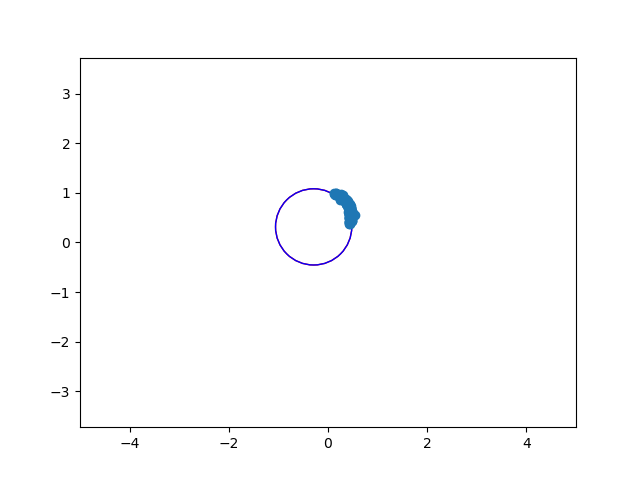
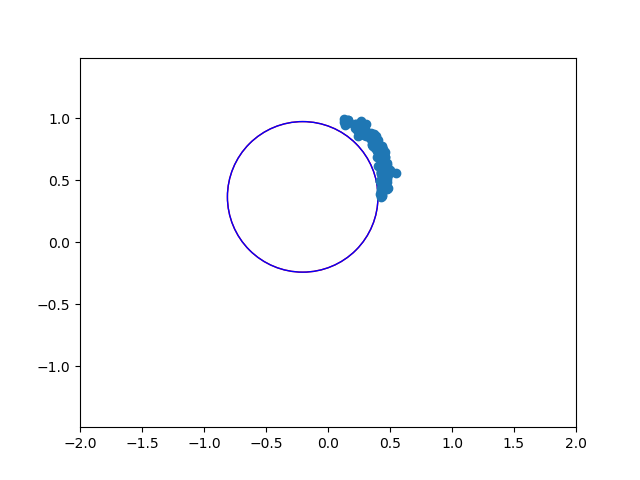
ADD: something wrong again...

diff --git a/train2.py b/train2.py
@@ -1,0 +1,156 @@
+import pandas as pd
+import matplotlib.pyplot as plt
+import math
+import random
+
+data0 = pd.read_csv("data/data2.txt", header=None, sep=" ")
+data0[:5]
+
+
+def g1(a, b, r, ksi1, x, y):
+    return -ksi1 - r + x * x - 2 * a * x + a * a + y * y - 2 * b * y + b * b
+
+
+def g2(a, b, r, ksi2, x, y):
+    return -ksi2 + r - x * x + 2 * a * x - a * a - y * y + 2 * b * y - b * b
+
+
+def train():
+
+    # parameters
+    ksi1 = [0.4] * len(data0)
+    ksi2 = [0.4] * len(data0)
+    r = 2
+    a = 0
+    b = 0
+
+    # lagrange parameters
+    u1 = [0] * len(data0)
+    u2 = [0] * len(data0)
+    # z = 0
+    # u3 = 0
+    # u4 = 0
+    # uz = 0
+
+    # step
+    p = 0.1
+    step = 0.1
+    i = 0
+    # outer loop
+    while (i < 100):
+        i += 1
+        j = 0
+
+        # print(ksi1)
+        # print(ksi2)
+        print(a)
+        print(b)
+        print(r)
+
+        # inner loop
+        while (j < 100):
+            j += 1
+            # print(j)
+            k = 0
+            while (k < len(data0)):
+                # rand_num = random.randint(0, len(data0) - 1)
+                x = data0[0][k]
+                y = data0[1][k]
+                tmp_g1 = max(0, g1(a, b, r, ksi1[k], x, y))
+                tmp_g2 = max(0, g2(a, b, r, ksi2[k], x, y))
+                tmp_ksi1 = max(0, -ksi1[k])
+                tmp_ksi2 = max(0, -ksi2[k])
+
+                # Partial derivative
+                tmp_g1_ksi1 = -1
+                tmp_g2_ksi2 = -1
+                tmp_g1_r = -1
+                tmp_g2_r = 1
+                tmp_g1_a = -2 * x + 2 * a
+                tmp_g2_a = 2 * x - 2 * a
+                tmp_g1_b = -2 * y + 2 * b
+                tmp_g2_b = 2 * y - 2 * b
+                if tmp_g1 <= 0:
+                    tmp_g1_ksi1 = 0
+                    tmp_g1_r = 0
+                    tmp_g1_a = 0
+                    tmp_g1_b = 0
+
+                if tmp_g2 <= 0:
+                    tmp_g2_ksi2 = 0
+                    tmp_g2_r = 0
+                    tmp_g2_a = 0
+                    tmp_g2_b = 0
+
+                grad_ksi1 = 0.1 + p * tmp_g1 * tmp_g1 * 2 * tmp_g1 * tmp_g1_ksi1 \
+                    + 2 * u1[k] * tmp_g1 * tmp_g1_ksi1
+                # + 2 * p * (max(0, -ksi1) ** 3) * -1
+
+                grad_ksi2 = 0.1 + p * tmp_g2 * tmp_g2 * 2 * tmp_g2*tmp_g2_ksi2 \
+                    + 2 * u2[k] * tmp_g2 * tmp_g2_ksi2
+                # + 2 * p * (max(0, -ksi2) ** 3) * -1
+
+                grad_r = p * tmp_g1 * tmp_g1 * 2 * tmp_g1 * tmp_g1_r \
+                    + 2 * u1[k] * tmp_g1 * tmp_g1_r \
+                    + p * tmp_g2 * tmp_g2 * 2 * tmp_g2 * tmp_g2_r \
+                    + 2 * u2[k]* tmp_g2 * tmp_g2_r
+
+                grad_a = p * tmp_g1 * tmp_g1 * 2 * tmp_g1 * tmp_g1_a \
+                    + 2 * u1[k] * tmp_g1 * tmp_g1_a \
+                    + p * tmp_g2 * tmp_g2 * 2 * tmp_g2 * tmp_g2_a \
+                    + 2 * u2[k] * tmp_g2 * tmp_g2_a
+
+                grad_b = p * tmp_g1 * tmp_g1 * 2 * tmp_g1 * tmp_g1_b \
+                    + 2 * u1[k] * tmp_g1 * tmp_g1_b \
+                    + p * tmp_g2 * tmp_g2 * 2 * tmp_g2 * tmp_g2_b \
+                    + 2 * u2[k] * tmp_g2 * tmp_g2_b
+
+                ksi1[k] -= step * grad_ksi1
+                ksi1[k] = ksi1[k] if ksi1[k] > 0 else 0
+
+                ksi2[k] -= step * grad_ksi2
+                ksi2[k] = ksi2[k] if ksi2[k] > 0 else 0
+
+                r -= step * grad_r
+                a -= step * grad_a
+                b -= step * grad_b
+
+                # # update u1 u2
+                # tmp_g1 = g1(a, b, r, ksi1[k], x, y)
+                # tmp_g1 = tmp_g1 if tmp_g1 < 0 else 0
+                # u1[k] += p * tmp_g1 * tmp_g1
+                # tmp_g2 = g2(a, b, r, ksi2[k], x, y)
+                # tmp_g2 = tmp_g2 if tmp_g2 < 0 else 0
+                # u2[k] += p * tmp_g2 * tmp_g2
+
+                k += 1
+            k = 0
+            while (k < len(data0)):
+                # rand_num = random.randint(0, len(data0) - 1)
+                x = data0[0][k]
+                y = data0[1][k]
+                tmp_g1 = max(0, g1(a, b, r, ksi1[k], x, y))
+                tmp_g2 = max(0, g2(a, b, r, ksi2[k], x, y))
+                # update u1 u2
+                
+                # tmp_g1 = tmp_g1 if tmp_g1 < 0 else 0
+                u1[k] -= p * tmp_g1 * tmp_g1
+                
+                # tmp_g2 = tmp_g2 if tmp_g2 < 0 else 0
+                u2[k] -= p * tmp_g2 * tmp_g2
+                k += 1
+
+        fig, ax = plt.subplots()
+        circle = plt.Circle((a, b), r, color='r', fill=False)
+        # circle1 = plt.Circle((a, b), r + ksi1, color='r', fill=False)
+        # circle2 = plt.Circle((a, b), r - ksi2, color='b', fill=False)
+        ax.axis('equal')
+        ax.axis([-2, 2, -2, 2])
+        ax.add_artist(circle)
+        # ax.add_artist(circle1)
+        # ax.add_artist(circle2)
+        ax.plot(data0[0], data0[1], 'o')
+        fig.savefig("progress.png")
+
+
+train()

diff --git a/train.py b/train.py
@@ -48,14 +48,14 @@ def train():
         # inner loop
         while (j < 100):
             j += 1
-            print(j)
+            # print(j)
             k = 0
             while (k < len(data0)):
                 # rand_num = random.randint(0, len(data0) - 1)
                 x = data0[0][k]
                 y = data0[1][k]
                 tmp_g1 = max(0, g1(a, b, r, ksi1, x, y))
-                tmp_g2 = max(0, g2(a, b, r, ksi1, x, y))
+                tmp_g2 = max(0, g2(a, b, r, ksi2, x, y))
                 tmp_ksi1 = max(0, -ksi1)
                 tmp_ksi2 = max(0, -ksi2)
 
@@ -117,9 +117,9 @@ def train():
                 tmp_g1 = g1(a, b, r, ksi1, x, y)
                 tmp_g1 = tmp_g1 if tmp_g1 < 0 else 0
                 u1 += p * tmp_g1 * tmp_g1
-                tmp_g2 = g1(a, b, r, ksi2, x, y)
+                tmp_g2 = g2(a, b, r, ksi2, x, y)
                 tmp_g2 = tmp_g2 if tmp_g2 < 0 else 0
-                u1 += p * tmp_g2 * tmp_g2
+                u2 += p * tmp_g2 * tmp_g2
 
                 k += 1
 
@@ -127,7 +127,7 @@ def train():
         circle1 = plt.Circle((a, b), r + ksi1, color='r', fill=False)
         circle2 = plt.Circle((a, b), r - ksi2, color='b', fill=False)
         ax.axis('equal')
-        ax.axis([-5, 5, -5, 5])
+        ax.axis([-2, 2, -2, 2])
         ax.add_artist(circle1)
         ax.add_artist(circle2)
         ax.plot(data0[0], data0[1], 'o')
